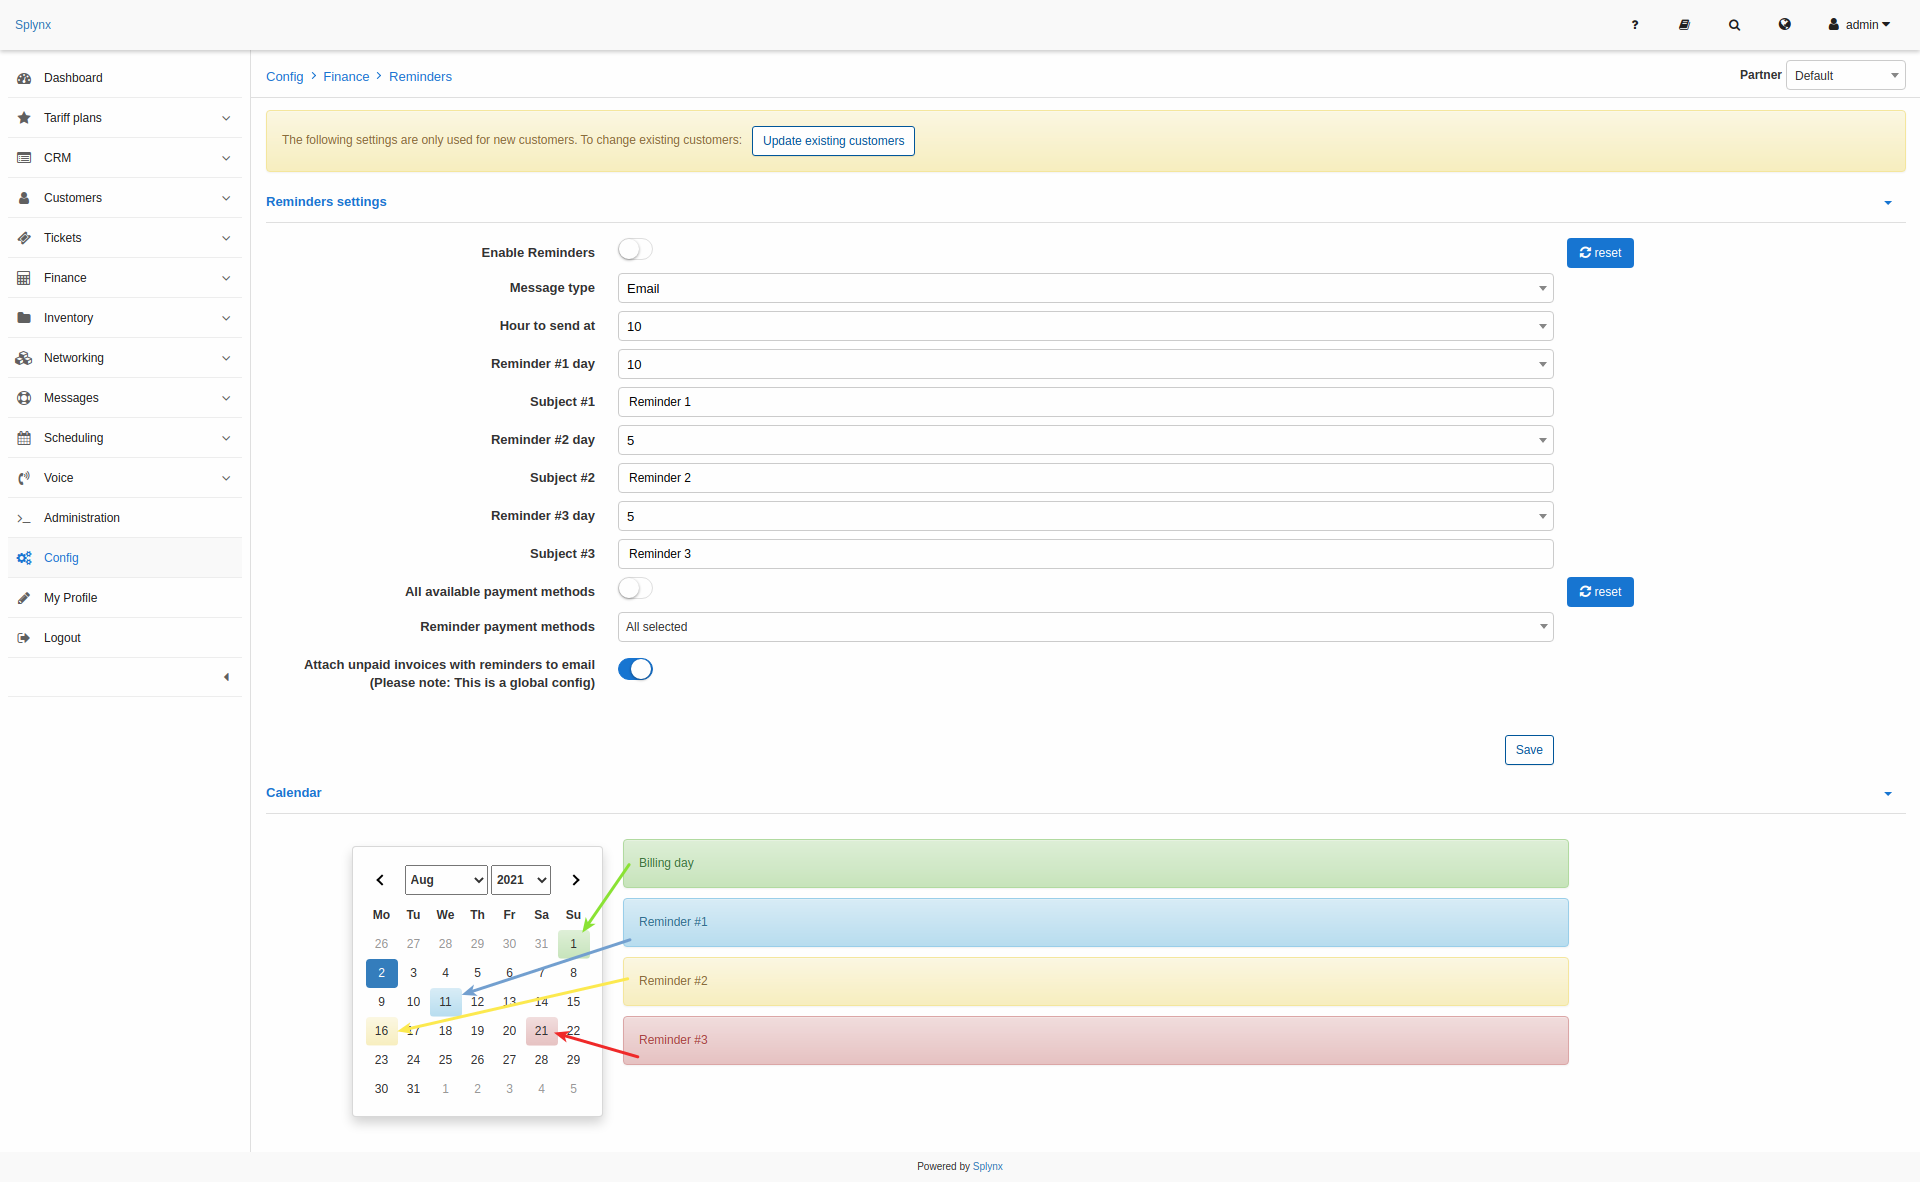
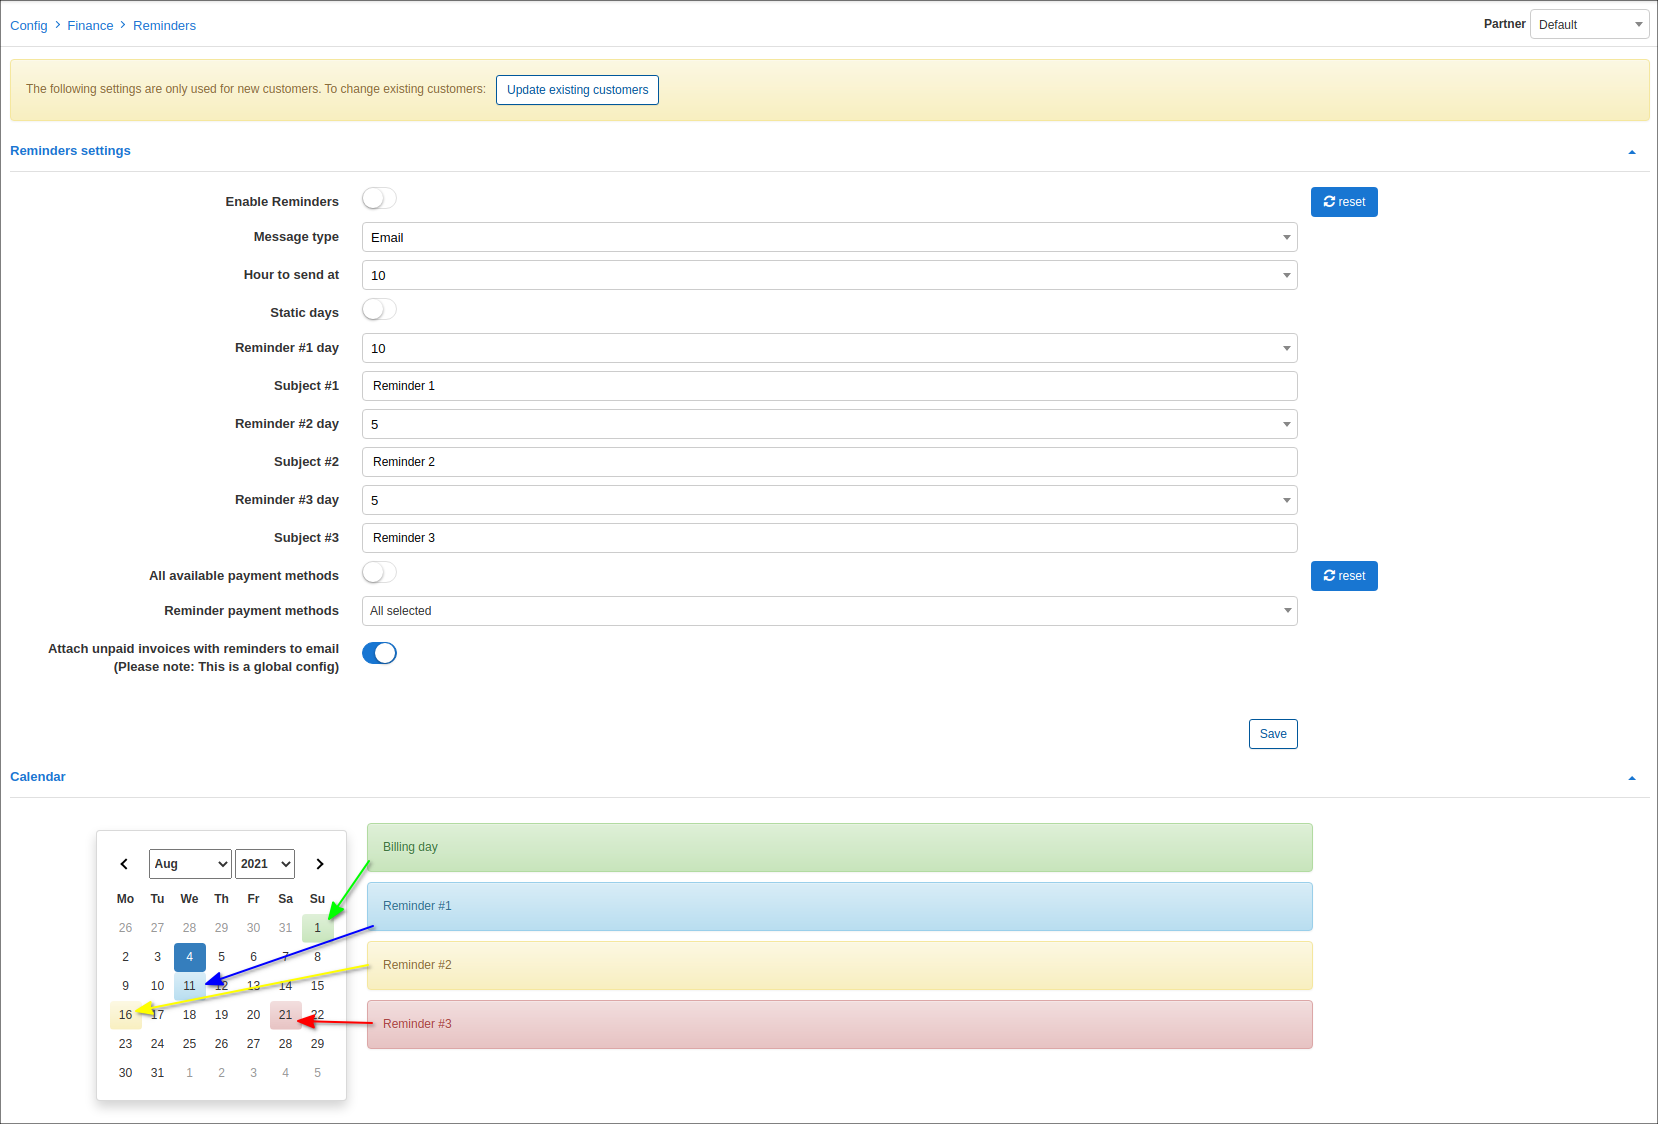
added explenation about static days option

diff --git a/files/en/configuration/finance/reminders/reminders.md b/files/en/configuration/finance/reminders/reminders.md
@@ -19,6 +19,7 @@ The following **Reminders settings** can be configured here:
 * **Enable Reminders** - enables or disables automatic sending of reminders;
 * **Message type** - choose the message type for sending reminders: Email, SMS, Email+SMS;
 * **Hour to send at** - choose a time for sending reminders;
+* **Static days** - a toggler allows to choose in which days of the month the reminders should be sent: after `x` number of days after billing day or on static days of the month.
 * **Reminder #1 day** - select in how many days you'd like the First Reminder to be sent;
 * **Subject #1** - type a subject for the 1st Reminder;
 * **Reminder #2 day** - select in how many days you'd like the Second Reminder to be sent;
@@ -29,8 +30,14 @@ The following **Reminders settings** can be configured here:
 * **Reminder payment methods** - in case `All available payment methods` option is disabled, we can choose the particular payment method (-s) in drop-down list on which to send notifications;
 * **Attach unpaid invoices with reminders to email** - enable this option to attach unpaid invoices to the email.
 
+**Example:**
 
-All 3 dates selected for sending of reminders will be displayed in the **Calendar** next to **Reminders settings**. In our example we chose 10 days for the Reminder #1, 5 days for the Reminder #2 and 5 days for the Reminder #3. That means reminders will be sent on 11th, 16th and 21th of of month accordingly.
+- **`Static days` toggler is `disabled`** : we choose 10 days for the Reminder #1, 5 days for the Reminder #2 and 5 days for the Reminder #3. That means reminders will be sent on 11th, 16th and 21th of of month accordingly.
+
+- **`Static days` toggler is `enabled`** : we choose - 5 days for the Reminder #1, 7 days for the Reminder #2 and 10 days for the Reminder #3. It means that reminders will be sent on the defined dates of the current month (5th, 7th and 10th of August). If the admin selects a value for a reminder more than days in the current month, e.g. this month has 28 days and admin chooses 31 or 40, then the reminder will be sent on the last day of the month.
+
+
+All 3 dates selected for sending of reminders will be displayed in the **Calendar** next to **Reminders settings**.
 
 These settings are global and to update existing customers with these settings you can use the **Update existing customers** button. For example, I'd like to update the day for reminder #1, for customers in partner *"Person"* and recurring billing type, the update will look as follows:
 
